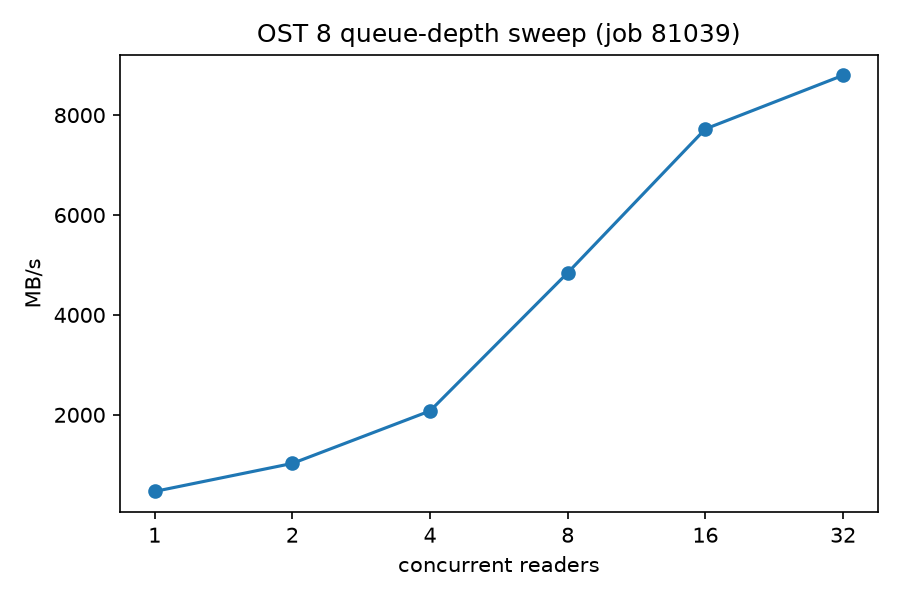
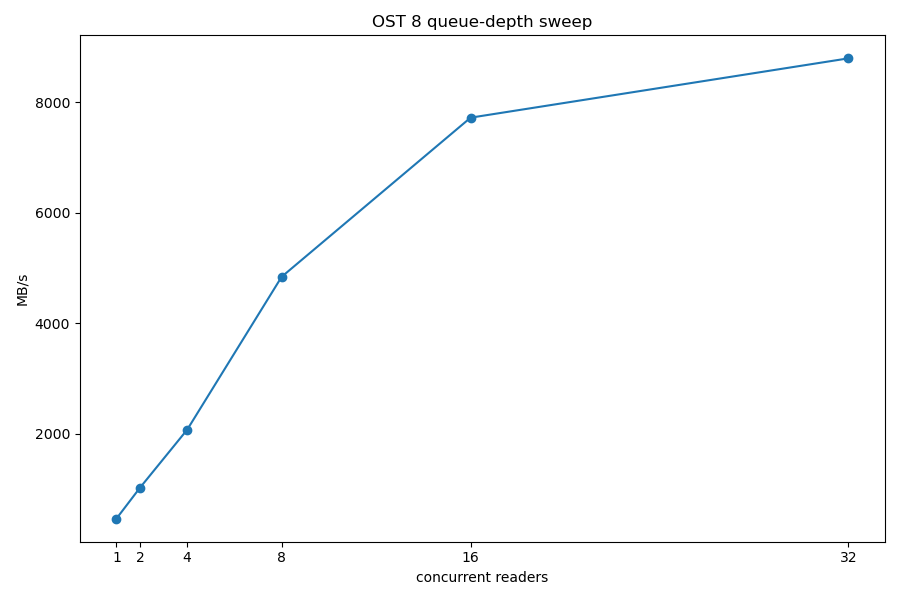
exp: add generic parallel-reads-on-one-file sweep, drop job id from OST plot title

diff --git a/experiments/parallel-reads-lustre/scripts/plot.py b/experiments/parallel-reads-lustre/scripts/plot.py
@@ -1,0 +1,34 @@
+#!/usr/bin/env python3
+"""Plot readers vs MB/s from a parallel_read_sweep.sbatch .out file.
+
+Usage: plot.py <sweep.out> [out_png]
+"""
+import re
+import sys
+
+import matplotlib
+matplotlib.use("Agg")
+import matplotlib.pyplot as plt
+
+out_path = sys.argv[1]
+png_path = sys.argv[2] if len(sys.argv) > 2 else "sweep.png"
+
+readers, mbps = [], []
+with open(out_path) as f:
+    for line in f:
+        m = re.match(r"\s*(\d+)\s+([\d.]+)\s*$", line)
+        if m:
+            readers.append(int(m.group(1)))
+            mbps.append(float(m.group(2)))
+
+fig, ax = plt.subplots(figsize=(6, 4))
+ax.plot(readers, mbps, marker="o")
+ax.set_xscale("log", base=2)
+ax.set_xticks(readers)
+ax.set_xticklabels(readers)
+ax.set_xlabel("concurrent readers")
+ax.set_ylabel("MB/s")
+ax.set_title("Parallel reads on a single Lustre file")
+fig.tight_layout()
+fig.savefig(png_path, dpi=150)
+print(f"wrote {png_path}")

diff --git a/blog.md b/blog.md
@@ -114,7 +114,7 @@ done
 We measure this on a single 5GB shard (bs=16M, O_DIRECT, `dev/null`), sweeping the number of parallel `dd` processes reading disjoint, contiguous byte ranges of the same file:
 
 <p align="center">
-  <img src="assets/ost_queue_depth.png" alt="OST read throughput scales with the number of parallel readers, then flattens near the NIC line rate" width="60%">
+  <img src="assets/ost_queue_depth.png" alt="OST read throughput scales with the number of parallel readers, then flattens near the NIC line rate" width="50%">
 </p>
 
 Throughput scales close to linearly with reader count up to 16, then flattens. With many processes, we are able to keep many RPCs in flight, improving the bandwidth. 

diff --git a/experiments/parallel-reads-lustre/README.md b/experiments/parallel-reads-lustre/README.md
@@ -1,0 +1,14 @@
+# Parallel reads on a single Lustre file
+
+Does splitting one file into disjoint byte ranges and reading them with more
+concurrent processes increase throughput? Each range is read with
+`dd iflag=direct` (bypasses the page cache) so every reader measures a genuine
+disk read, not a page-cache hit.
+
+```
+FILE=/path/to/some/large/file sbatch scripts/parallel_read_sweep.sbatch
+python scripts/plot.py results/parallel-read-sweep-<jobid>.out results/sweep.png
+```
+
+Sweeps reader counts 1/2/4/8/16/32 over a fixed 1 GiB window of `FILE`,
+`bs=16M`, and reports aggregate MB/s per reader count.
